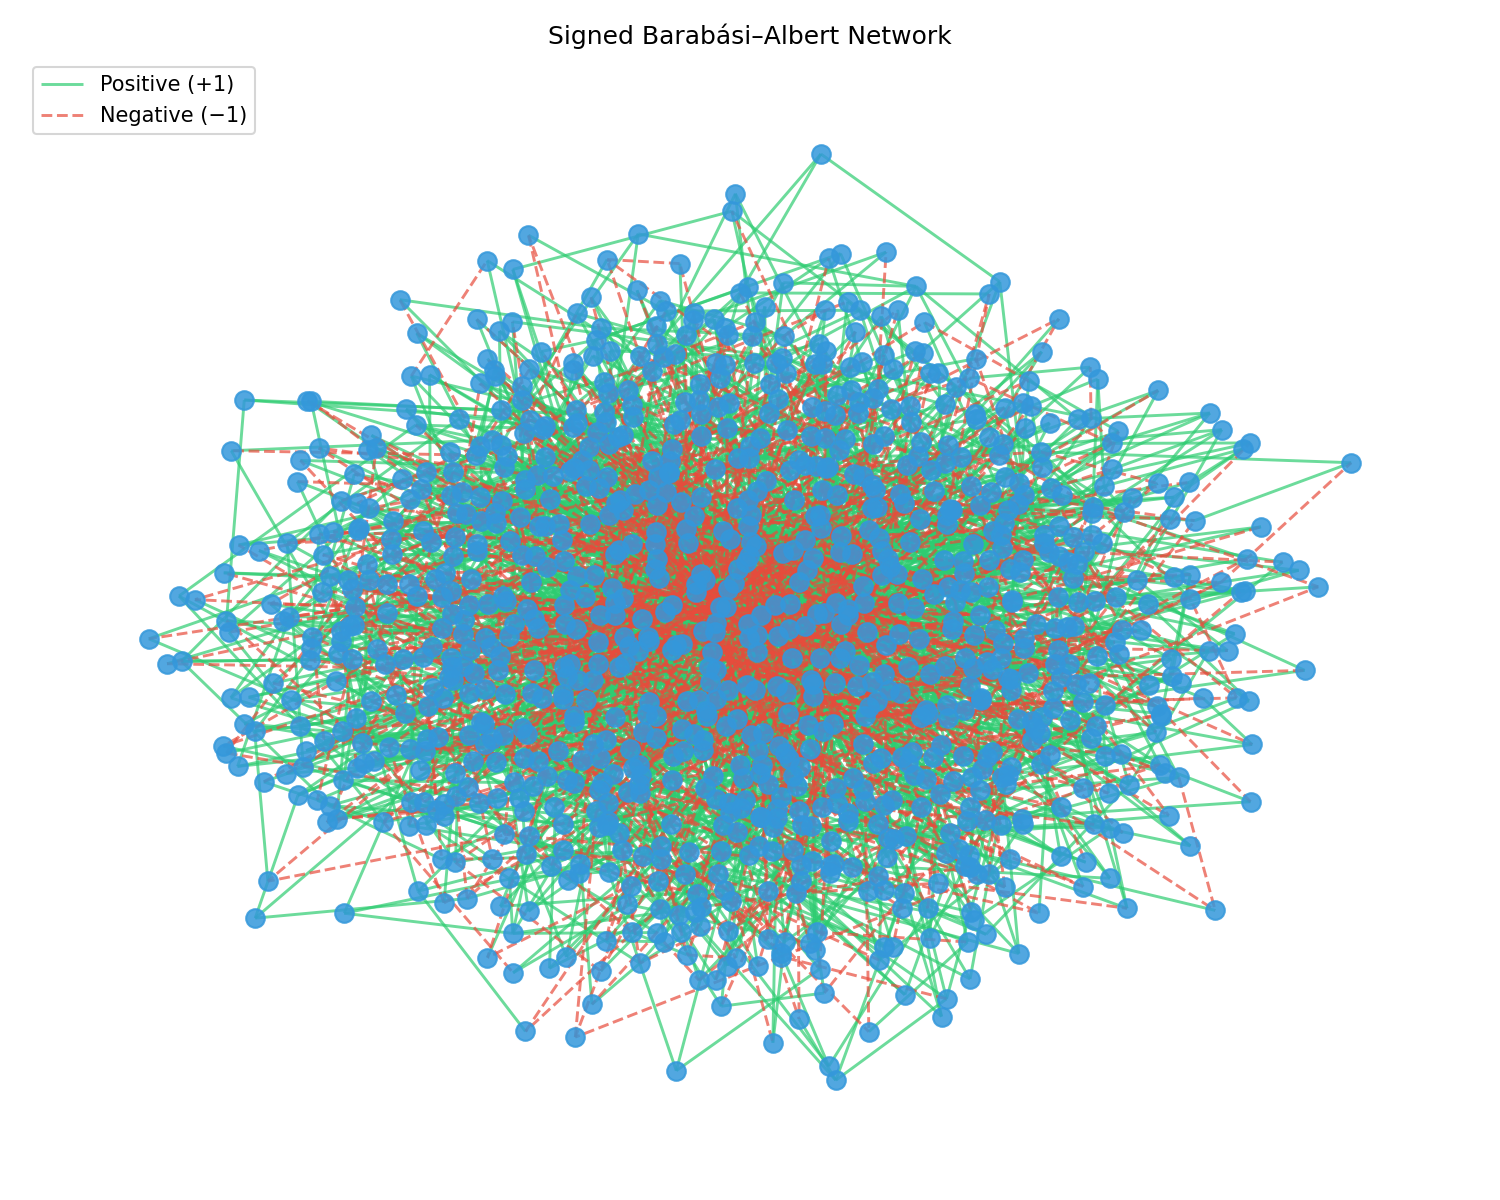
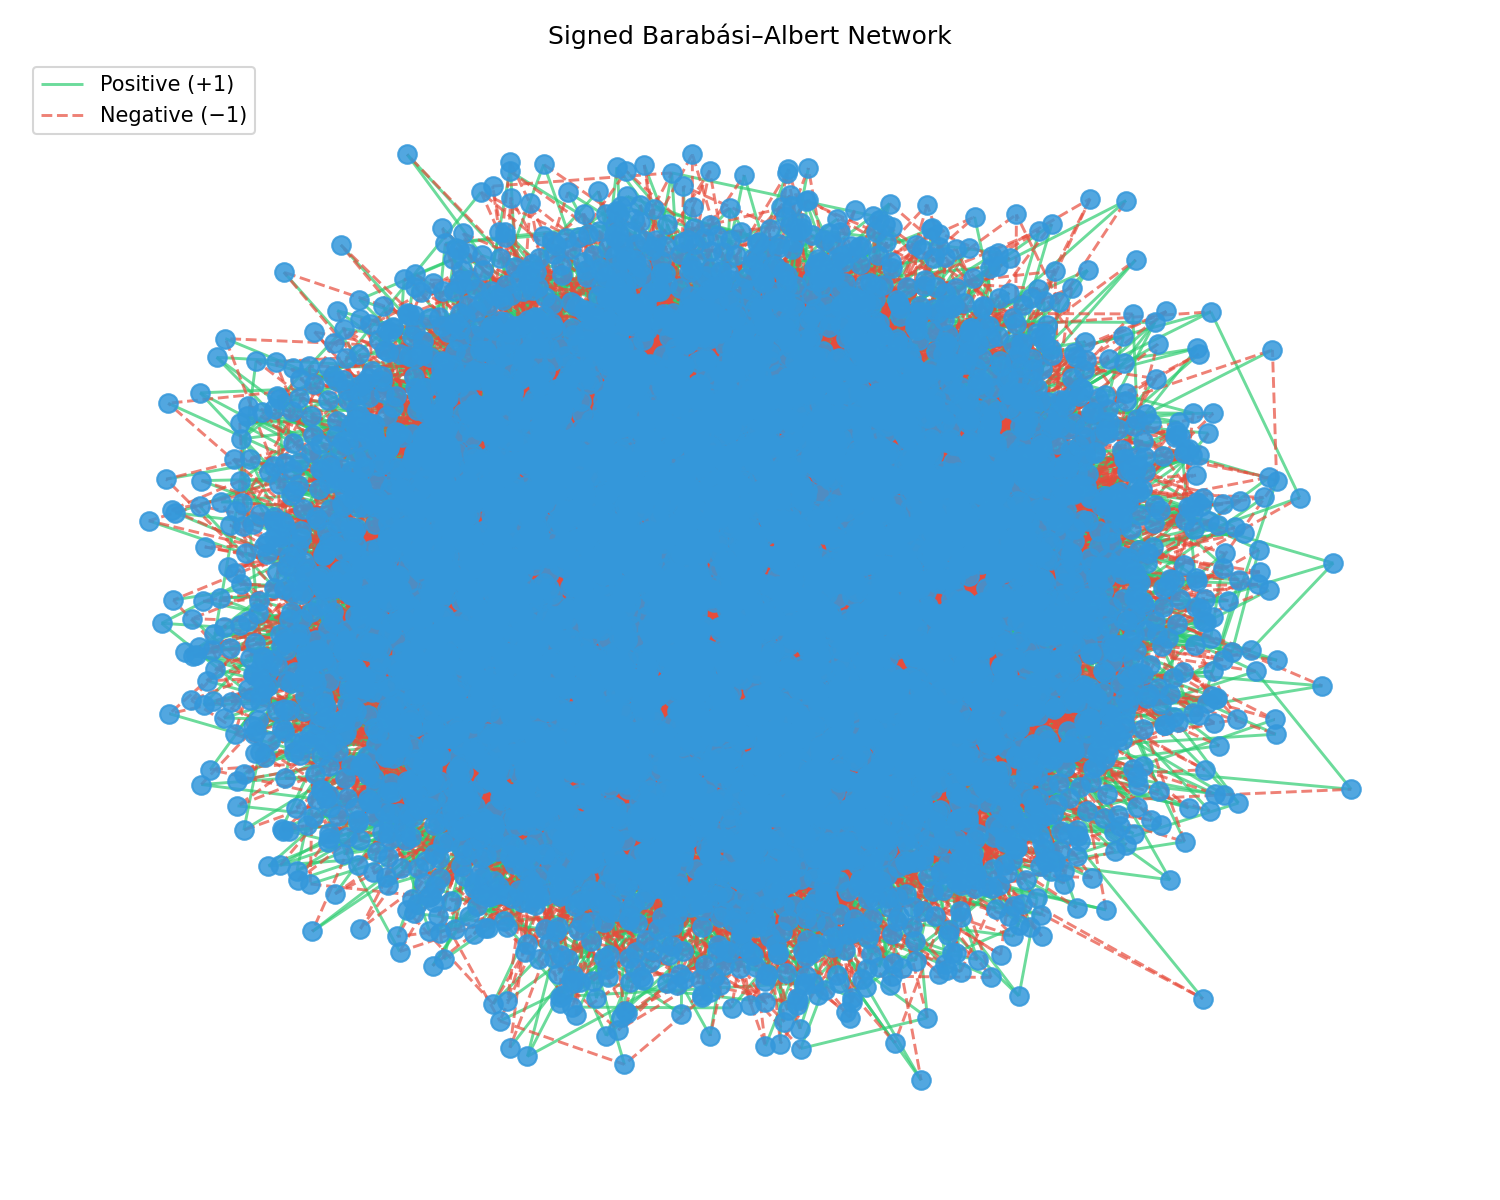
removed some code and started running visualization

diff --git a/Experiments/Experiment_4-bis.py b/Experiments/Experiment_4-bis.py
@@ -82,99 +82,15 @@ def visualise_signed_network(G, title="Signed Barabási–Albert Network",
     plt.axis('off')
     plt.tight_layout()
     plt.savefig(save_path, dpi=150)
-    plt.show()
 
 
-# ── Balance Score Helpers ──────────────────────────────────────────────────
-
-def get_triangles(G, nodes):
-    """Return all triangles within a set of nodes."""
-    triangles = []
-    node_list = list(nodes)
-    for i, j, k in combinations(node_list, 3):
-        if G.has_edge(i, j) and G.has_edge(j, k) and G.has_edge(i, k):
-            triangles.append((i, j, k))
-    return triangles
-
-
-def balance_score(G, community_nodes):
-    """
-    Compute the fraction of balanced triangles within a community.
-    A triangle is balanced if the product of its edge signs is positive.
-    Returns None if no triangles exist.
-    """
-    triangles = get_triangles(G, community_nodes)
-    if not triangles:
-        return None
-
-    balanced = sum(
-        1 for i, j, k in triangles
-        if G[i][j]['sign'] * G[j][k]['sign'] * G[i][k]['sign'] > 0
-    )
-    return balanced / len(triangles)
-
-
-# ── Experiment 1: Balance Profiling ───────────────────────────────────────
-
-def experiment_1(G):
-    """
-    1. Run Louvain community detection (ignoring signs)
-    2. Compute balance score for each detected community
-    3. Visualise the distribution of balance scores
-    """
-
-    # Step 1 — run Louvain on unsigned graph
-    partition = community_louvain.best_partition(G)
-
-    # Step 2 — group nodes by community
-    communities = {}
-    for node, comm_id in partition.items():
-        communities.setdefault(comm_id, set()).add(node)
-
-    print(f"Number of communities detected: {len(communities)}")
-
-    # Step 3 — compute balance score per community
-    scores = {}
-    for comm_id, nodes in communities.items():
-        score = balance_score(G, nodes)
-        scores[comm_id] = score
-        if score is not None:
-            print(f"  Community {comm_id}: {len(nodes)} nodes, "
-                  f"balance score = {score:.3f}")
-        else:
-            print(f"  Community {comm_id}: {len(nodes)} nodes, no triangles")
-
-    # Step 4 — filter out communities with no triangles
-    valid_scores = [s for s in scores.values() if s is not None]
-    print(f"\nCommunities with triangles: {len(valid_scores)} / {len(communities)}")
-    print(f"Mean balance score: {np.mean(valid_scores):.3f}")
-    print(f"Min balance score:  {np.min(valid_scores):.3f}")
-    print(f"Max balance score:  {np.max(valid_scores):.3f}")
-
-    # Step 5 — visualise distribution
-    plt.figure(figsize=(8, 5))
-    plt.hist(valid_scores, bins=20, color='#3498db', 
-             edgecolor='white', alpha=0.85)
-    plt.axvline(np.mean(valid_scores), color='#e74c3c', linestyle='--',
-                label=f'Mean = {np.mean(valid_scores):.3f}')
-    plt.xlabel("Balance Score")
-    plt.ylabel("Number of Communities")
-    plt.title("Distribution of Balance Scores per Community (Experiment 1)")
-    plt.legend()
-    plt.tight_layout()
-    plt.savefig("experiment_1_balance_scores.png", dpi=150)
-
-    return partition, communities, scores
-
-
-# ── Main ───────────────────────────────────────────────────────────────────
 
 if __name__ == "__main__":
     # build network
-    G = signed_ba_model(n=1000, m=3, p_positive=0.7, seed=42)
-
+    G = signed_ba_model(n=7000, m=3, p_positive=0.5, seed=42)
+    #G1 = signed_ba_model(n=7000, m = 3, p_positive=0.1, seed=42)
+    #G2 = signed_ba_model(n=7000, m = 3, p_positive=0.9, seed=42)
     # visualise
     visualise_signed_network(G)
-
-    # run experiment 1
-    partition, communities, scores = experiment_1(G)
+    #visualise_signed_network(G1, save_path="signed_ba1.png")
+    #visualise_signed_network(G2, save_path="signed_ba2.png")
